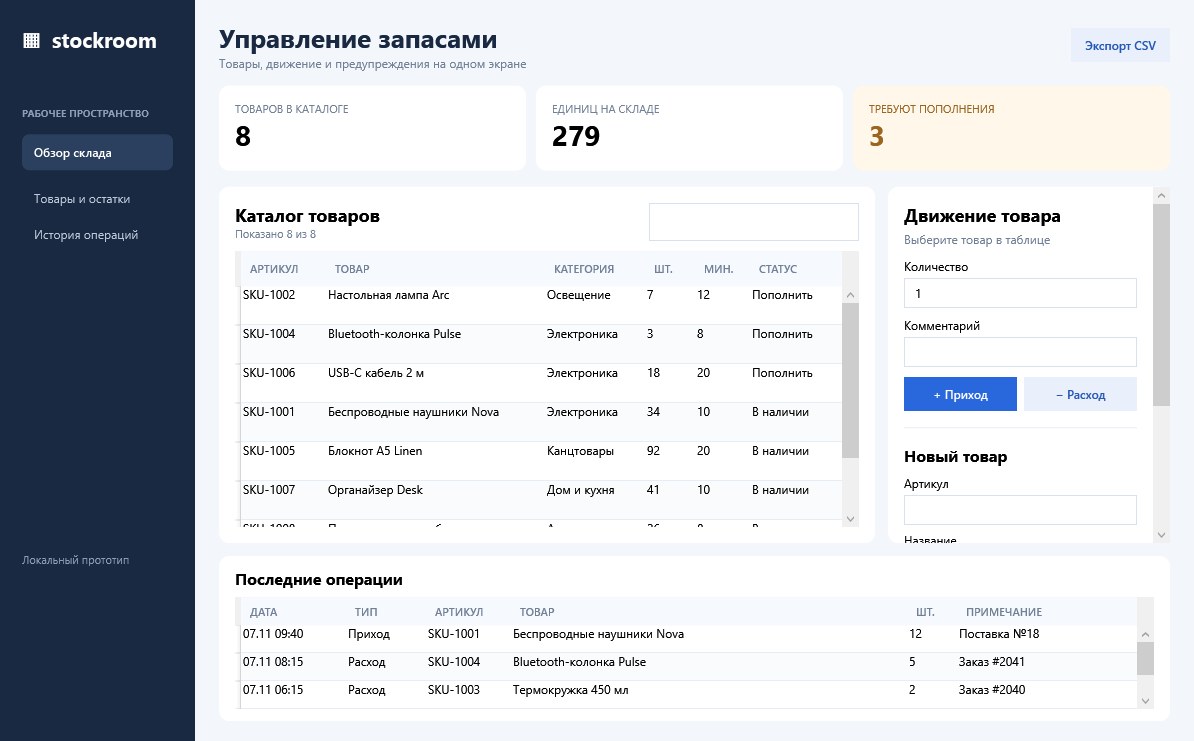
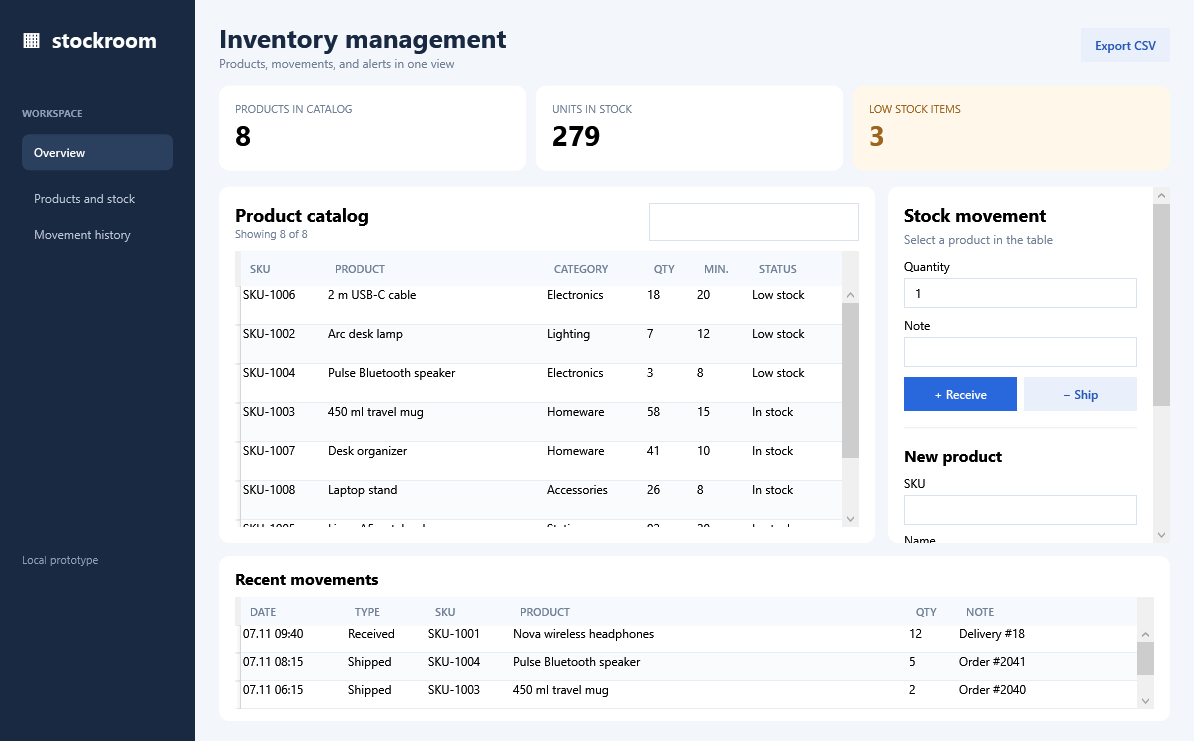
Translate inventory app and portfolio screenshot to English

diff --git a/StockWindow.xaml b/StockWindow.xaml
@@ -1,4 +1,4 @@
-<Window x:Class="RetailStockDesk.StockWindow" xmlns="http://schemas.microsoft.com/winfx/2006/xaml/presentation" xmlns:x="http://schemas.microsoft.com/winfx/2006/xaml" Title="Stockroom — учёт товаров" Width="1210" Height="780" MinWidth="1000" MinHeight="650" WindowStartupLocation="CenterScreen" Background="#F3F6FA" FontFamily="Segoe UI">
+<Window x:Class="RetailStockDesk.StockWindow" xmlns="http://schemas.microsoft.com/winfx/2006/xaml/presentation" xmlns:x="http://schemas.microsoft.com/winfx/2006/xaml" Title="Stockroom — inventory" Width="1210" Height="780" MinWidth="1000" MinHeight="650" WindowStartupLocation="CenterScreen" Background="#F3F6FA" FontFamily="Segoe UI">
   <Window.Resources>
     <Style x:Key="Primary" TargetType="Button"><Setter Property="Background" Value="#2967DC"/><Setter Property="Foreground" Value="White"/><Setter Property="BorderThickness" Value="0"/><Setter Property="Padding" Value="14,9"/><Setter Property="FontWeight" Value="SemiBold"/></Style>
     <Style x:Key="Secondary" TargetType="Button" BasedOn="{StaticResource Primary}"><Setter Property="Background" Value="#E9F0FC"/><Setter Property="Foreground" Value="#2458B8"/></Style>
@@ -8,14 +8,14 @@
     <Style TargetType="DataGridCell"><Setter Property="Padding" Value="9,0"/><Setter Property="BorderThickness" Value="0"/></Style>
   </Window.Resources>
   <Grid Background="#F3F6FA"><Grid.ColumnDefinitions><ColumnDefinition Width="195"/><ColumnDefinition Width="*"/></Grid.ColumnDefinitions>
-    <Border Background="#192942"><StackPanel Margin="22,25"><TextBlock Text="▦  stockroom" Foreground="White" FontSize="21" FontWeight="Bold"/><TextBlock Text="РАБОЧЕЕ ПРОСТРАНСТВО" Foreground="#8D9DB6" FontSize="10" FontWeight="Bold" Margin="0,53,0,15"/><Border Background="#2B405E" Padding="12,10" CornerRadius="7"><TextBlock Text="Обзор склада" Foreground="White" FontWeight="SemiBold"/></Border><TextBlock Text="Товары и остатки" Foreground="#BCC7D7" Margin="12,20,0,0"/><TextBlock Text="История операций" Foreground="#BCC7D7" Margin="12,20,0,0"/><TextBlock Text="Локальный прототип" Foreground="#8D9DB6" Margin="0,310,0,0" FontSize="11"/></StackPanel></Border>
+    <Border Background="#192942"><StackPanel Margin="22,25"><TextBlock Text="▦  stockroom" Foreground="White" FontSize="21" FontWeight="Bold"/><TextBlock Text="WORKSPACE" Foreground="#8D9DB6" FontSize="10" FontWeight="Bold" Margin="0,53,0,15"/><Border Background="#2B405E" Padding="12,10" CornerRadius="7"><TextBlock Text="Overview" Foreground="White" FontWeight="SemiBold"/></Border><TextBlock Text="Products and stock" Foreground="#BCC7D7" Margin="12,20,0,0"/><TextBlock Text="Movement history" Foreground="#BCC7D7" Margin="12,20,0,0"/><TextBlock Text="Local prototype" Foreground="#8D9DB6" Margin="0,310,0,0" FontSize="11"/></StackPanel></Border>
     <Grid Grid.Column="1" Margin="24,20"><Grid.RowDefinitions><RowDefinition Height="Auto"/><RowDefinition Height="15"/><RowDefinition Height="85"/><RowDefinition Height="16"/><RowDefinition Height="*"/><RowDefinition Height="13"/><RowDefinition Height="165"/></Grid.RowDefinitions>
-      <Grid><Grid.ColumnDefinitions><ColumnDefinition Width="*"/><ColumnDefinition Width="Auto"/></Grid.ColumnDefinitions><StackPanel><TextBlock Text="Управление запасами" FontSize="26" FontWeight="Bold" Foreground="#192942"/><TextBlock Text="Товары, движение и предупреждения на одном экране" Foreground="#718097" FontSize="12"/></StackPanel><Button Grid.Column="1" Content="Экспорт CSV" Style="{StaticResource Secondary}" Click="Export_Click" VerticalAlignment="Center"/></Grid>
-      <UniformGrid Grid.Row="2" Columns="3"><Border Background="White" CornerRadius="10" Padding="16" Margin="0,0,10,0"><StackPanel><TextBlock Text="ТОВАРОВ В КАТАЛОГЕ" Foreground="#718097" FontSize="11"/><TextBlock x:Name="CountText" FontSize="28" FontWeight="Bold"/></StackPanel></Border><Border Background="White" CornerRadius="10" Padding="16" Margin="0,0,10,0"><StackPanel><TextBlock Text="ЕДИНИЦ НА СКЛАДЕ" Foreground="#718097" FontSize="11"/><TextBlock x:Name="UnitsText" FontSize="28" FontWeight="Bold"/></StackPanel></Border><Border Background="#FFF7E9" CornerRadius="10" Padding="16"><StackPanel><TextBlock Text="ТРЕБУЮТ ПОПОЛНЕНИЯ" Foreground="#9B651F" FontSize="11"/><TextBlock x:Name="LowText" Foreground="#9B651F" FontSize="28" FontWeight="Bold"/></StackPanel></Border></UniformGrid>
-      <Grid Grid.Row="4"><Grid.ColumnDefinitions><ColumnDefinition Width="*"/><ColumnDefinition Width="282"/></Grid.ColumnDefinitions><Border Background="White" CornerRadius="10" Margin="0,0,13,0"><Grid Margin="16"><Grid.RowDefinitions><RowDefinition Height="Auto"/><RowDefinition Height="10"/><RowDefinition Height="*"/></Grid.RowDefinitions><Grid><Grid.ColumnDefinitions><ColumnDefinition Width="*"/><ColumnDefinition Width="210"/></Grid.ColumnDefinitions><StackPanel><TextBlock Text="Каталог товаров" FontSize="18" FontWeight="Bold"/><TextBlock x:Name="FilterText" Foreground="#718097" FontSize="11"/></StackPanel><TextBox x:Name="SearchBox" Grid.Column="1" ToolTip="Поиск по артикулу, названию и категории" TextChanged="Search_Changed"/></Grid><DataGrid x:Name="ProductsGrid" Grid.Row="2" AutoGenerateColumns="False" SelectionChanged="Product_Selected"><DataGrid.Columns><DataGridTextColumn Header="АРТИКУЛ" Binding="{Binding Sku}" Width="85"/><DataGridTextColumn Header="ТОВАР" Binding="{Binding Name}" Width="*"/><DataGridTextColumn Header="КАТЕГОРИЯ" Binding="{Binding Category}" Width="100"/><DataGridTextColumn Header="ШТ." Binding="{Binding Quantity}" Width="50"/><DataGridTextColumn Header="МИН." Binding="{Binding Minimum}" Width="55"/><DataGridTextColumn Header="СТАТУС" Binding="{Binding Status}" Width="92"/></DataGrid.Columns></DataGrid></Grid></Border>
-        <Border Grid.Column="1" Background="White" CornerRadius="10"><ScrollViewer><StackPanel Margin="16"><TextBlock Text="Движение товара" FontSize="18" FontWeight="Bold"/><TextBlock x:Name="SelectedText" Text="Выберите товар в таблице" Foreground="#718097" Margin="0,5,0,11" TextWrapping="Wrap"/><TextBlock Text="Количество" FontSize="12"/><TextBox x:Name="MoveBox" Text="1" Margin="0,4,0,9"/><TextBlock Text="Комментарий" FontSize="12"/><TextBox x:Name="NoteBox" Margin="0,4,0,10"/><Grid><Grid.ColumnDefinitions><ColumnDefinition Width="*"/><ColumnDefinition Width="7"/><ColumnDefinition Width="*"/></Grid.ColumnDefinitions><Button Content="+ Приход" Style="{StaticResource Primary}" Click="Receive_Click"/><Button Grid.Column="2" Content="− Расход" Style="{StaticResource Secondary}" Click="Ship_Click"/></Grid><Border Height="1" Background="#E7EDF5" Margin="0,16"/><TextBlock Text="Новый товар" FontSize="16" FontWeight="Bold" Margin="0,0,0,10"/><TextBlock Text="Артикул" FontSize="12"/><TextBox x:Name="SkuBox" Margin="0,4,0,7"/><TextBlock Text="Название" FontSize="12"/><TextBox x:Name="NameBox" Margin="0,4,0,7"/><TextBlock Text="Категория" FontSize="12"/><TextBox x:Name="CategoryBox" Margin="0,4,0,7"/><Grid><Grid.ColumnDefinitions><ColumnDefinition Width="*"/><ColumnDefinition Width="7"/><ColumnDefinition Width="*"/></Grid.ColumnDefinitions><StackPanel><TextBlock Text="Остаток" FontSize="12"/><TextBox x:Name="QuantityBox" Text="0" Margin="0,4,0,8"/></StackPanel><StackPanel Grid.Column="2"><TextBlock Text="Минимум" FontSize="12"/><TextBox x:Name="MinimumBox" Text="5" Margin="0,4,0,8"/></StackPanel></Grid><Button Content="Добавить в каталог" Style="{StaticResource Primary}" Click="Add_Click"/></StackPanel></ScrollViewer></Border>
+      <Grid><Grid.ColumnDefinitions><ColumnDefinition Width="*"/><ColumnDefinition Width="Auto"/></Grid.ColumnDefinitions><StackPanel><TextBlock Text="Inventory management" FontSize="26" FontWeight="Bold" Foreground="#192942"/><TextBlock Text="Products, movements, and alerts in one view" Foreground="#718097" FontSize="12"/></StackPanel><Button Grid.Column="1" Content="Export CSV" Style="{StaticResource Secondary}" Click="Export_Click" VerticalAlignment="Center"/></Grid>
+      <UniformGrid Grid.Row="2" Columns="3"><Border Background="White" CornerRadius="10" Padding="16" Margin="0,0,10,0"><StackPanel><TextBlock Text="PRODUCTS IN CATALOG" Foreground="#718097" FontSize="11"/><TextBlock x:Name="CountText" FontSize="28" FontWeight="Bold"/></StackPanel></Border><Border Background="White" CornerRadius="10" Padding="16" Margin="0,0,10,0"><StackPanel><TextBlock Text="UNITS IN STOCK" Foreground="#718097" FontSize="11"/><TextBlock x:Name="UnitsText" FontSize="28" FontWeight="Bold"/></StackPanel></Border><Border Background="#FFF7E9" CornerRadius="10" Padding="16"><StackPanel><TextBlock Text="LOW STOCK ITEMS" Foreground="#9B651F" FontSize="11"/><TextBlock x:Name="LowText" Foreground="#9B651F" FontSize="28" FontWeight="Bold"/></StackPanel></Border></UniformGrid>
+      <Grid Grid.Row="4"><Grid.ColumnDefinitions><ColumnDefinition Width="*"/><ColumnDefinition Width="282"/></Grid.ColumnDefinitions><Border Background="White" CornerRadius="10" Margin="0,0,13,0"><Grid Margin="16"><Grid.RowDefinitions><RowDefinition Height="Auto"/><RowDefinition Height="10"/><RowDefinition Height="*"/></Grid.RowDefinitions><Grid><Grid.ColumnDefinitions><ColumnDefinition Width="*"/><ColumnDefinition Width="210"/></Grid.ColumnDefinitions><StackPanel><TextBlock Text="Product catalog" FontSize="18" FontWeight="Bold"/><TextBlock x:Name="FilterText" Foreground="#718097" FontSize="11"/></StackPanel><TextBox x:Name="SearchBox" Grid.Column="1" ToolTip="Search by SKU, name, or category" TextChanged="Search_Changed"/></Grid><DataGrid x:Name="ProductsGrid" Grid.Row="2" AutoGenerateColumns="False" SelectionChanged="Product_Selected"><DataGrid.Columns><DataGridTextColumn Header="SKU" Binding="{Binding Sku}" Width="85"/><DataGridTextColumn Header="PRODUCT" Binding="{Binding Name}" Width="*"/><DataGridTextColumn Header="CATEGORY" Binding="{Binding Category}" Width="100"/><DataGridTextColumn Header="QTY" Binding="{Binding Quantity}" Width="50"/><DataGridTextColumn Header="MIN." Binding="{Binding Minimum}" Width="55"/><DataGridTextColumn Header="STATUS" Binding="{Binding Status}" Width="92"/></DataGrid.Columns></DataGrid></Grid></Border>
+        <Border Grid.Column="1" Background="White" CornerRadius="10"><ScrollViewer><StackPanel Margin="16"><TextBlock Text="Stock movement" FontSize="18" FontWeight="Bold"/><TextBlock x:Name="SelectedText" Text="Select a product in the table" Foreground="#718097" Margin="0,5,0,11" TextWrapping="Wrap"/><TextBlock Text="Quantity" FontSize="12"/><TextBox x:Name="MoveBox" Text="1" Margin="0,4,0,9"/><TextBlock Text="Note" FontSize="12"/><TextBox x:Name="NoteBox" Margin="0,4,0,10"/><Grid><Grid.ColumnDefinitions><ColumnDefinition Width="*"/><ColumnDefinition Width="7"/><ColumnDefinition Width="*"/></Grid.ColumnDefinitions><Button Content="+ Receive" Style="{StaticResource Primary}" Click="Receive_Click"/><Button Grid.Column="2" Content="− Ship" Style="{StaticResource Secondary}" Click="Ship_Click"/></Grid><Border Height="1" Background="#E7EDF5" Margin="0,16"/><TextBlock Text="New product" FontSize="16" FontWeight="Bold" Margin="0,0,0,10"/><TextBlock Text="SKU" FontSize="12"/><TextBox x:Name="SkuBox" Margin="0,4,0,7"/><TextBlock Text="Name" FontSize="12"/><TextBox x:Name="NameBox" Margin="0,4,0,7"/><TextBlock Text="Category" FontSize="12"/><TextBox x:Name="CategoryBox" Margin="0,4,0,7"/><Grid><Grid.ColumnDefinitions><ColumnDefinition Width="*"/><ColumnDefinition Width="7"/><ColumnDefinition Width="*"/></Grid.ColumnDefinitions><StackPanel><TextBlock Text="Quantity" FontSize="12"/><TextBox x:Name="QuantityBox" Text="0" Margin="0,4,0,8"/></StackPanel><StackPanel Grid.Column="2"><TextBlock Text="Minimum" FontSize="12"/><TextBox x:Name="MinimumBox" Text="5" Margin="0,4,0,8"/></StackPanel></Grid><Button Content="Add product" Style="{StaticResource Primary}" Click="Add_Click"/></StackPanel></ScrollViewer></Border>
       </Grid>
-      <Border Grid.Row="6" Background="White" CornerRadius="10"><Grid Margin="16,12"><Grid.RowDefinitions><RowDefinition Height="Auto"/><RowDefinition Height="8"/><RowDefinition Height="*"/></Grid.RowDefinitions><TextBlock Text="Последние операции" FontSize="16" FontWeight="Bold"/><DataGrid x:Name="HistoryGrid" Grid.Row="2" AutoGenerateColumns="False" RowHeight="28" ColumnHeaderHeight="28"><DataGrid.Columns><DataGridTextColumn Header="ДАТА" Binding="{Binding TimeLabel}" Width="105"/><DataGridTextColumn Header="ТИП" Binding="{Binding Type}" Width="80"/><DataGridTextColumn Header="АРТИКУЛ" Binding="{Binding Sku}" Width="85"/><DataGridTextColumn Header="ТОВАР" Binding="{Binding ProductName}" Width="*"/><DataGridTextColumn Header="ШТ." Binding="{Binding Quantity}" Width="50"/><DataGridTextColumn Header="ПРИМЕЧАНИЕ" Binding="{Binding Note}" Width="180"/></DataGrid.Columns></DataGrid></Grid></Border>
+      <Border Grid.Row="6" Background="White" CornerRadius="10"><Grid Margin="16,12"><Grid.RowDefinitions><RowDefinition Height="Auto"/><RowDefinition Height="8"/><RowDefinition Height="*"/></Grid.RowDefinitions><TextBlock Text="Recent movements" FontSize="16" FontWeight="Bold"/><DataGrid x:Name="HistoryGrid" Grid.Row="2" AutoGenerateColumns="False" RowHeight="28" ColumnHeaderHeight="28"><DataGrid.Columns><DataGridTextColumn Header="DATE" Binding="{Binding TimeLabel}" Width="105"/><DataGridTextColumn Header="TYPE" Binding="{Binding Type}" Width="80"/><DataGridTextColumn Header="SKU" Binding="{Binding Sku}" Width="85"/><DataGridTextColumn Header="PRODUCT" Binding="{Binding ProductName}" Width="*"/><DataGridTextColumn Header="QTY" Binding="{Binding Quantity}" Width="50"/><DataGridTextColumn Header="NOTE" Binding="{Binding Note}" Width="180"/></DataGrid.Columns></DataGrid></Grid></Border>
     </Grid>
   </Grid>
 </Window>

diff --git a/StockWindow.xaml.cs b/StockWindow.xaml.cs
@@ -56,7 +56,7 @@ public partial class StockWindow : Window
                 return;
             }
         }
-        catch (Exception ex) { Warn("Не удалось прочитать локальные данные: " + ex.Message); }
+        catch (Exception ex) { Warn("Could not read local data: " + ex.Message); }
         _inventory = Inventory.Demo();
         Save();
     }
@@ -71,7 +71,7 @@ public partial class StockWindow : Window
             File.Move(temporary, _file, true);
             return true;
         }
-        catch (Exception ex) { Warn("Не удалось сохранить данные: " + ex.Message); return false; }
+        catch (Exception ex) { Warn("Could not save data: " + ex.Message); return false; }
     }
 
     private void Refresh(string? selectedSku = null)
@@ -85,7 +85,7 @@ public partial class StockWindow : Window
         CountText.Text = _inventory.Products.Count.ToString();
         UnitsText.Text = _inventory.Products.Sum(p => p.Quantity).ToString("N0");
         LowText.Text = _inventory.Products.Count(p => p.Quantity <= p.Minimum).ToString();
-        FilterText.Text = $"Показано {rows.Count} из {_inventory.Products.Count}";
+        FilterText.Text = $"Showing {rows.Count} of {_inventory.Products.Count}";
         HistoryGrid.ItemsSource = _inventory.Movements.OrderByDescending(m => m.Time).Take(50).ToList();
     }
 
@@ -95,21 +95,21 @@ public partial class StockWindow : Window
     }
 
     private void Product_Selected(object sender, SelectionChangedEventArgs e)
-        => SelectedText.Text = (ProductsGrid.SelectedItem as ProductRow)?.Name ?? "Выберите товар в таблице";
+        => SelectedText.Text = (ProductsGrid.SelectedItem as ProductRow)?.Name ?? "Select a product in the table";
 
     private void Receive_Click(object sender, RoutedEventArgs e) => Move(1);
     private void Ship_Click(object sender, RoutedEventArgs e) => Move(-1);
 
     private void Move(int direction)
     {
-        if (ProductsGrid.SelectedItem is not ProductRow row) { Warn("Выберите товар в таблице."); return; }
-        if (!int.TryParse(MoveBox.Text, out var count) || count < 1 || count > 1_000_000) { Warn("Введите положительное целое количество до 1 000 000."); return; }
+        if (ProductsGrid.SelectedItem is not ProductRow row) { Warn("Select a product in the table."); return; }
+        if (!int.TryParse(MoveBox.Text, out var count) || count < 1 || count > 1_000_000) { Warn("Enter a positive whole number up to 1,000,000."); return; }
         var product = _inventory.Products.First(p => p.Sku == row.Sku);
-        if (direction < 0 && count > product.Quantity) { Warn("Для расхода недостаточно товара."); return; }
-        if (direction > 0 && product.Quantity > int.MaxValue - count) { Warn("Слишком большое количество."); return; }
+        if (direction < 0 && count > product.Quantity) { Warn("Not enough stock for this shipment."); return; }
+        if (direction > 0 && product.Quantity > int.MaxValue - count) { Warn("Quantity is too large."); return; }
         product.Quantity += direction * count;
         var movement = new Movement { Time = DateTime.Now, Sku = product.Sku, ProductName = product.Name,
-            Type = direction > 0 ? "Приход" : "Расход", Quantity = count, Note = NoteBox.Text.Trim() };
+            Type = direction > 0 ? "Received" : "Shipped", Quantity = count, Note = NoteBox.Text.Trim() };
         _inventory.Movements.Add(movement);
         if (!Save()) { product.Quantity -= direction * count; _inventory.Movements.Remove(movement); return; }
         NoteBox.Clear();
@@ -120,10 +120,10 @@ public partial class StockWindow : Window
     {
         var sku = SkuBox.Text.Trim(); var name = NameBox.Text.Trim(); var category = CategoryBox.Text.Trim();
         if (sku.Length is < 2 or > 40 || name.Length is < 2 or > 100 || category.Length is < 2 or > 60)
-        { Warn("Введите артикул, название и категорию (не менее 2 символов)."); return; }
-        if (_inventory.Products.Any(p => p.Sku.Equals(sku, StringComparison.OrdinalIgnoreCase))) { Warn("Этот артикул уже существует."); return; }
+        { Warn("Enter an SKU, name, and category (at least 2 characters each)."); return; }
+        if (_inventory.Products.Any(p => p.Sku.Equals(sku, StringComparison.OrdinalIgnoreCase))) { Warn("This SKU already exists."); return; }
         if (!int.TryParse(QuantityBox.Text, out var quantity) || quantity < 0 || !int.TryParse(MinimumBox.Text, out var minimum) || minimum < 0)
-        { Warn("Остаток и минимум должны быть неотрицательными целыми числами."); return; }
+        { Warn("Quantity and minimum must be non-negative whole numbers."); return; }
         var product = new Product { Sku = sku, Name = name, Category = category, Quantity = quantity, Minimum = minimum };
         _inventory.Products.Add(product);
         if (!Save()) { _inventory.Products.Remove(product); return; }
@@ -133,7 +133,7 @@ public partial class StockWindow : Window
 
     private void Export_Click(object sender, RoutedEventArgs e)
     {
-        var dialog = new SaveFileDialog { Title = "Экспорт каталога", Filter = "CSV (*.csv)|*.csv", FileName = "stockroom-products.csv" };
+        var dialog = new SaveFileDialog { Title = "Export catalog", Filter = "CSV (*.csv)|*.csv", FileName = "stockroom-products.csv" };
         if (dialog.ShowDialog(this) != true) return;
         try
         {
@@ -141,9 +141,9 @@ public partial class StockWindow : Window
             lines.AddRange(_inventory.Products.Select(p => string.Join(",", Csv(p.Sku), Csv(p.Name), Csv(p.Category),
                 p.Quantity, p.Minimum, Csv(p.Quantity <= p.Minimum ? "Low stock" : "In stock"))));
             File.WriteAllLines(dialog.FileName, lines, new UTF8Encoding(true));
-            MessageBox.Show("CSV сохранён: " + dialog.FileName, "Stockroom");
+            MessageBox.Show("CSV saved: " + dialog.FileName, "Stockroom");
         }
-        catch (Exception ex) { Warn("Не удалось экспортировать CSV: " + ex.Message); }
+        catch (Exception ex) { Warn("Could not export CSV: " + ex.Message); }
     }
 
     private static string Csv(string s) => "\"" + s.Replace("\"", "\"\"") + "\"";
@@ -158,20 +158,20 @@ public sealed class Inventory
     {
         Products = new()
         {
-            new() { Sku="SKU-1001", Name="Беспроводные наушники Nova", Category="Электроника", Quantity=34, Minimum=10 },
-            new() { Sku="SKU-1002", Name="Настольная лампа Arc", Category="Освещение", Quantity=7, Minimum=12 },
-            new() { Sku="SKU-1003", Name="Термокружка 450 мл", Category="Дом и кухня", Quantity=58, Minimum=15 },
-            new() { Sku="SKU-1004", Name="Bluetooth-колонка Pulse", Category="Электроника", Quantity=3, Minimum=8 },
-            new() { Sku="SKU-1005", Name="Блокнот A5 Linen", Category="Канцтовары", Quantity=92, Minimum=20 },
-            new() { Sku="SKU-1006", Name="USB-C кабель 2 м", Category="Электроника", Quantity=18, Minimum=20 },
-            new() { Sku="SKU-1007", Name="Органайзер Desk", Category="Дом и кухня", Quantity=41, Minimum=10 },
-            new() { Sku="SKU-1008", Name="Подставка для ноутбука", Category="Аксессуары", Quantity=26, Minimum=8 }
+            new() { Sku="SKU-1001", Name="Nova wireless headphones", Category="Electronics", Quantity=34, Minimum=10 },
+            new() { Sku="SKU-1002", Name="Arc desk lamp", Category="Lighting", Quantity=7, Minimum=12 },
+            new() { Sku="SKU-1003", Name="450 ml travel mug", Category="Homeware", Quantity=58, Minimum=15 },
+            new() { Sku="SKU-1004", Name="Pulse Bluetooth speaker", Category="Electronics", Quantity=3, Minimum=8 },
+            new() { Sku="SKU-1005", Name="Linen A5 notebook", Category="Stationery", Quantity=92, Minimum=20 },
+            new() { Sku="SKU-1006", Name="2 m USB-C cable", Category="Electronics", Quantity=18, Minimum=20 },
+            new() { Sku="SKU-1007", Name="Desk organizer", Category="Homeware", Quantity=41, Minimum=10 },
+            new() { Sku="SKU-1008", Name="Laptop stand", Category="Accessories", Quantity=26, Minimum=8 }
         },
         Movements = new()
         {
-            new() { Time=DateTime.Now.AddMinutes(-35), Type="Приход", Sku="SKU-1001", ProductName="Беспроводные наушники Nova", Quantity=12, Note="Поставка №18" },
-            new() { Time=DateTime.Now.AddHours(-2), Type="Расход", Sku="SKU-1004", ProductName="Bluetooth-колонка Pulse", Quantity=5, Note="Заказ #2041" },
-            new() { Time=DateTime.Now.AddHours(-4), Type="Расход", Sku="SKU-1003", ProductName="Термокружка 450 мл", Quantity=2, Note="Заказ #2040" }
+            new() { Time=DateTime.Now.AddMinutes(-35), Type="Received", Sku="SKU-1001", ProductName="Nova wireless headphones", Quantity=12, Note="Delivery #18" },
+            new() { Time=DateTime.Now.AddHours(-2), Type="Shipped", Sku="SKU-1004", ProductName="Pulse Bluetooth speaker", Quantity=5, Note="Order #2041" },
+            new() { Time=DateTime.Now.AddHours(-4), Type="Shipped", Sku="SKU-1003", ProductName="450 ml travel mug", Quantity=2, Note="Order #2040" }
         }
     };
 }
@@ -192,7 +192,7 @@ public sealed class ProductRow(Product p)
     public string Category { get; } = p.Category;
     public int Quantity { get; } = p.Quantity;
     public int Minimum { get; } = p.Minimum;
-    public string Status { get; } = p.Quantity <= p.Minimum ? "Пополнить" : "В наличии";
+    public string Status { get; } = p.Quantity <= p.Minimum ? "Low stock" : "In stock";
 }
 
 public sealed class Movement

diff --git a/README.md b/README.md
@@ -27,7 +27,7 @@ dotnet publish .\RetailStockDesk.csproj -c Release -r win-x64 --self-contained f
 .\publish\RetailStockDesk.exe
 ```
 
-Select a product, enter a quantity, then use **Приход** or **Расход**. The application prevents negative stock. To restart the sample, close the app and delete `inventory.json` next to the executable.
+Select a product, enter a quantity, then use **Receive** or **Ship**. The application prevents negative stock. To restart the sample, close the app and delete `inventory.json` next to the executable.
 
 ## Scope
 
